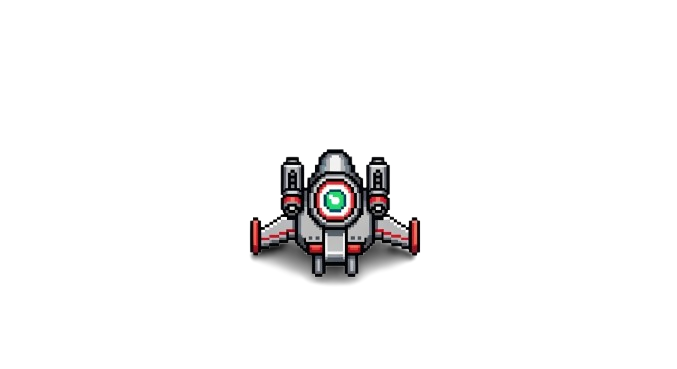
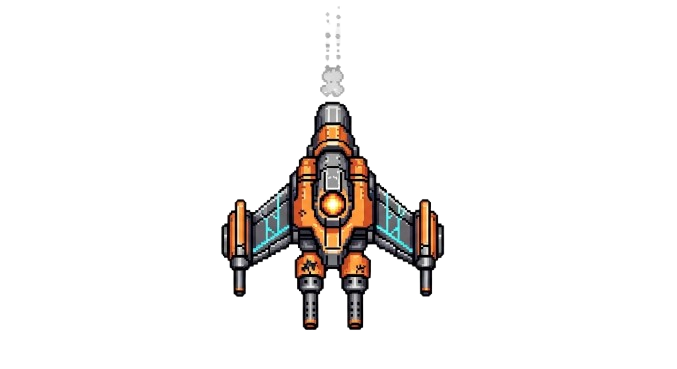
stage1 공격

Changed region(s): [[0.3102, 0.1789, 0.6824, 0.8943], [0.4653, 0.0894, 0.5273, 0.1491]]

diff --git a/src/game/server/Server.java b/src/game/server/Server.java
@@ -14,13 +14,26 @@ class EnemyState {
     double speedY = 120;
     int hp;
 
+    long spawnTime;
+    long lastFireTime = 0;
+    long fireDelay = 1500;
+
+    boolean canFire; // ★ 중요
+
     EnemyState(int id, double x, double y, int hp) {
         this.id = id;
         this.x = x;
         this.y = y;
         this.hp = hp;
+
+        this.spawnTime = System.currentTimeMillis();
+
+        // 🔥 Stage1: 약 30%만 공격
+        this.canFire = Math.random() < 0.3;
     }
 }
+
+
 
 class BulletState {
     int id;
@@ -95,7 +108,7 @@ public class Server {
     // 타이머
     private long stageStartTime = 0;
     
-    private static final long STAGE1_TIME = 10000;
+    private static final long STAGE1_TIME = 20000;
     private static final long STAGE2_TIME = 10000; // 테스트용
     
     private static final double P1_START_X = 250;
@@ -351,6 +364,7 @@ public class Server {
         }
         updateBullets(sec);
         checkBulletEnemyCollision();
+        checkBulletPlayerCollision();
         checkEnemyPlayerCollision();
         sendPlayerStates();
         sendBulletStates();
@@ -459,19 +473,62 @@ public class Server {
     private void updateEnemies(long dt) {
 
         double sec = dt / 1000.0;
+        long now = System.currentTimeMillis();
 
         for (EnemyState e : enemies.values()) {
 
+            // 이동
             e.y += e.speedY * sec;
 
+            // 화면 밖 제거
             if (e.y > 900) {
                 enemies.remove(e.id);
                 continue;
             }
 
+            // ===============================
+            // 🔥 Stage1 공격 조건 (중요)
+            // ===============================
+            if (currentStage == 1 && e.canFire) {
+
+                // 1⃣ 화면 안으로 들어온 뒤
+                if (e.y > 80) {
+
+                    // 2⃣ 스폰 직후 1초 대기
+                    if (now - e.spawnTime > 1000) {
+
+                        // 3⃣ 발사 쿨타임
+                        if (now - e.lastFireTime > e.fireDelay) {
+                            e.lastFireTime = now;
+                            spawnEnemyBullet(e);
+                        }
+                    }
+                }
+            }
+
             broadcast("/enemy/pos/" + e.id + "/" + e.x + "/" + e.y);
         }
     }
+
+    
+    private void spawnEnemyBullet(EnemyState e) {
+
+        int id = nextBulletId++;
+
+        // 싱글과 동일하게 아래 방향
+        double bx = e.x;
+        double by = e.y + 40;
+
+        double vx = 0;
+        double vy = 250; // 적 총알 속도 (싱글 값 맞추기)
+
+        BulletState b = new BulletState(id, -1, bx, by, vx, vy);
+        bullets.put(id, b);
+
+        broadcast("/bullet/spawn/" + id + "/enemy/" + bx + "/" + by);
+    }
+
+
     
     private void updateBoss(long dt) {
         if (boss == null) return;
@@ -574,18 +631,18 @@ public class Server {
 
         for (BulletState b : bullets.values()) {
 
-            // ─────────────────────────
-            // 1) 일반 적 충돌
-            // ─────────────────────────
+            // 🔥 플레이어 총알만 적을 맞출 수 있음
+            if (b.ownerId == -1) continue;
+
             for (EnemyState e : enemies.values()) {
 
-                if (Math.abs(b.x - e.x) < 40 && Math.abs(b.y - e.y) < 40) {
+                if (Math.abs(b.x - e.x) < 40 &&
+                    Math.abs(b.y - e.y) < 40) {
 
                     e.hp -= 20;
 
                     bullets.remove(b.id);
                     broadcast("/bullet/remove/" + b.id);
-
                     broadcast("/enemy/hp/" + e.id + "/" + e.hp);
 
                     if (e.hp <= 0) {
@@ -623,7 +680,48 @@ public class Server {
             }
         }
     }
+    
+    private void checkBulletPlayerCollision() {
 
+        for (BulletState b : bullets.values()) {
+
+            // 🔥 적 총알만 플레이어를 공격
+            if (b.ownerId != -1) continue;
+
+            for (int pid = 1; pid <= 2; pid++) {
+
+                PlayerState p = players[pid];
+                if (p == null || p.hp <= 0) continue;
+
+                // 싱글과 동일한 판정 크기
+                if (Math.abs(b.x - p.x) < 20 &&
+                    Math.abs(b.y - p.y) < 20) {
+
+                    // 💥 데미지
+                    p.hp -= 1;
+
+                    System.out.println(
+                        "[Server] Player " + pid + " hit by ENEMY BULLET! HP=" + p.hp
+                    );
+
+                    // 총알 제거
+                    bullets.remove(b.id);
+                    broadcast("/bullet/remove/" + b.id);
+
+                    // HP 동기화
+                    if (p.hp <= 0) {
+                        broadcast("/player/dead/" + pid);
+                    } else {
+                        broadcast("/player/hp/" + pid + "/" + p.hp);
+                    }
+
+                    return; // 1프레임 1회 처리
+                }
+            }
+        }
+    }
+
+    
     private void checkBossPlayerCollision() {
 
         if (currentStage != 3 || boss == null || !boss.alive) return;

diff --git a/src/game/main/Game.java b/src/game/main/Game.java
@@ -523,8 +523,40 @@ public class Game {
         }
         
         for (NetBullet b : netBullets.values()) {
-            g.drawImage(rm.getImage("bullet_basic"), (int)b.x, (int)b.y, null);
+
+            // ===============================
+            // 🔥 적 총알 (싱글과 동일: 이미지 없음)
+            // ===============================
+            if (b.isEnemyBullet()) {
+
+                g.setColor(new Color(255, 200, 60)); // 싱글 BASIC 느낌
+                g.fillRoundRect(
+                    (int) b.x,
+                    (int) b.y,
+                    8,   // 싱글 Bullet 기본 width
+                    16,  // 싱글 Bullet 기본 height
+                    4, 4
+                );
+
+            }
+            // ===============================
+            // 🔥 플레이어 총알 (기존 이미지 유지)
+            // ===============================
+            else {
+
+                Image img = rm.getImage("bullet_basic");
+
+                if (img != null) {
+                    g.drawImage(img, (int) b.x, (int) b.y, null);
+                } else {
+                    // 혹시 이미지 없을 때 안전장치
+                    g.setColor(Color.YELLOW);
+                    g.fillRoundRect((int) b.x, (int) b.y, 8, 16, 4, 4);
+                }
+            }
         }
+
+
 
      // 🔥 마지막에 항상 원래 변환으로 되돌리기
         g.setTransform(oldTx);
@@ -1259,8 +1291,9 @@ public class Game {
 
      if (p.startsWith("/bullet/spawn/")) {
     	    String[] t = p.split("/");
+
     	    int id = Integer.parseInt(t[3]);
-    	    int owner = Integer.parseInt(t[4]);
+    	    String owner = t[4];        // ★ 핵심
     	    double x = Double.parseDouble(t[5]);
     	    double y = Double.parseDouble(t[6]);
 
@@ -1268,6 +1301,8 @@ public class Game {
     	    netBullets.put(id, b);
     	    return;
     	}
+
+
      
      if (p.startsWith("/bullet/pos/")) {
     	    String[] t = p.split("/");

diff --git a/src/game/network/NetBullet.java b/src/game/network/NetBullet.java
@@ -3,12 +3,24 @@ package game.network;
 public class NetBullet {
     public int id;
     public double x, y;
-    public int ownerId;
+    public String owner; // "1", "2", "enemy"
 
-    public NetBullet(int id, double x, double y, int ownerId) {
+    public NetBullet(int id, double x, double y, String owner) {
         this.id = id;
         this.x = x;
         this.y = y;
-        this.ownerId = ownerId;
+        this.owner = owner;
+    }
+
+    public boolean isEnemyBullet() {
+        return "enemy".equals(owner);
+    }
+
+    public int getPlayerId() {
+        try {
+            return Integer.parseInt(owner);
+        } catch (Exception e) {
+            return -1;
+        }
     }
 }
